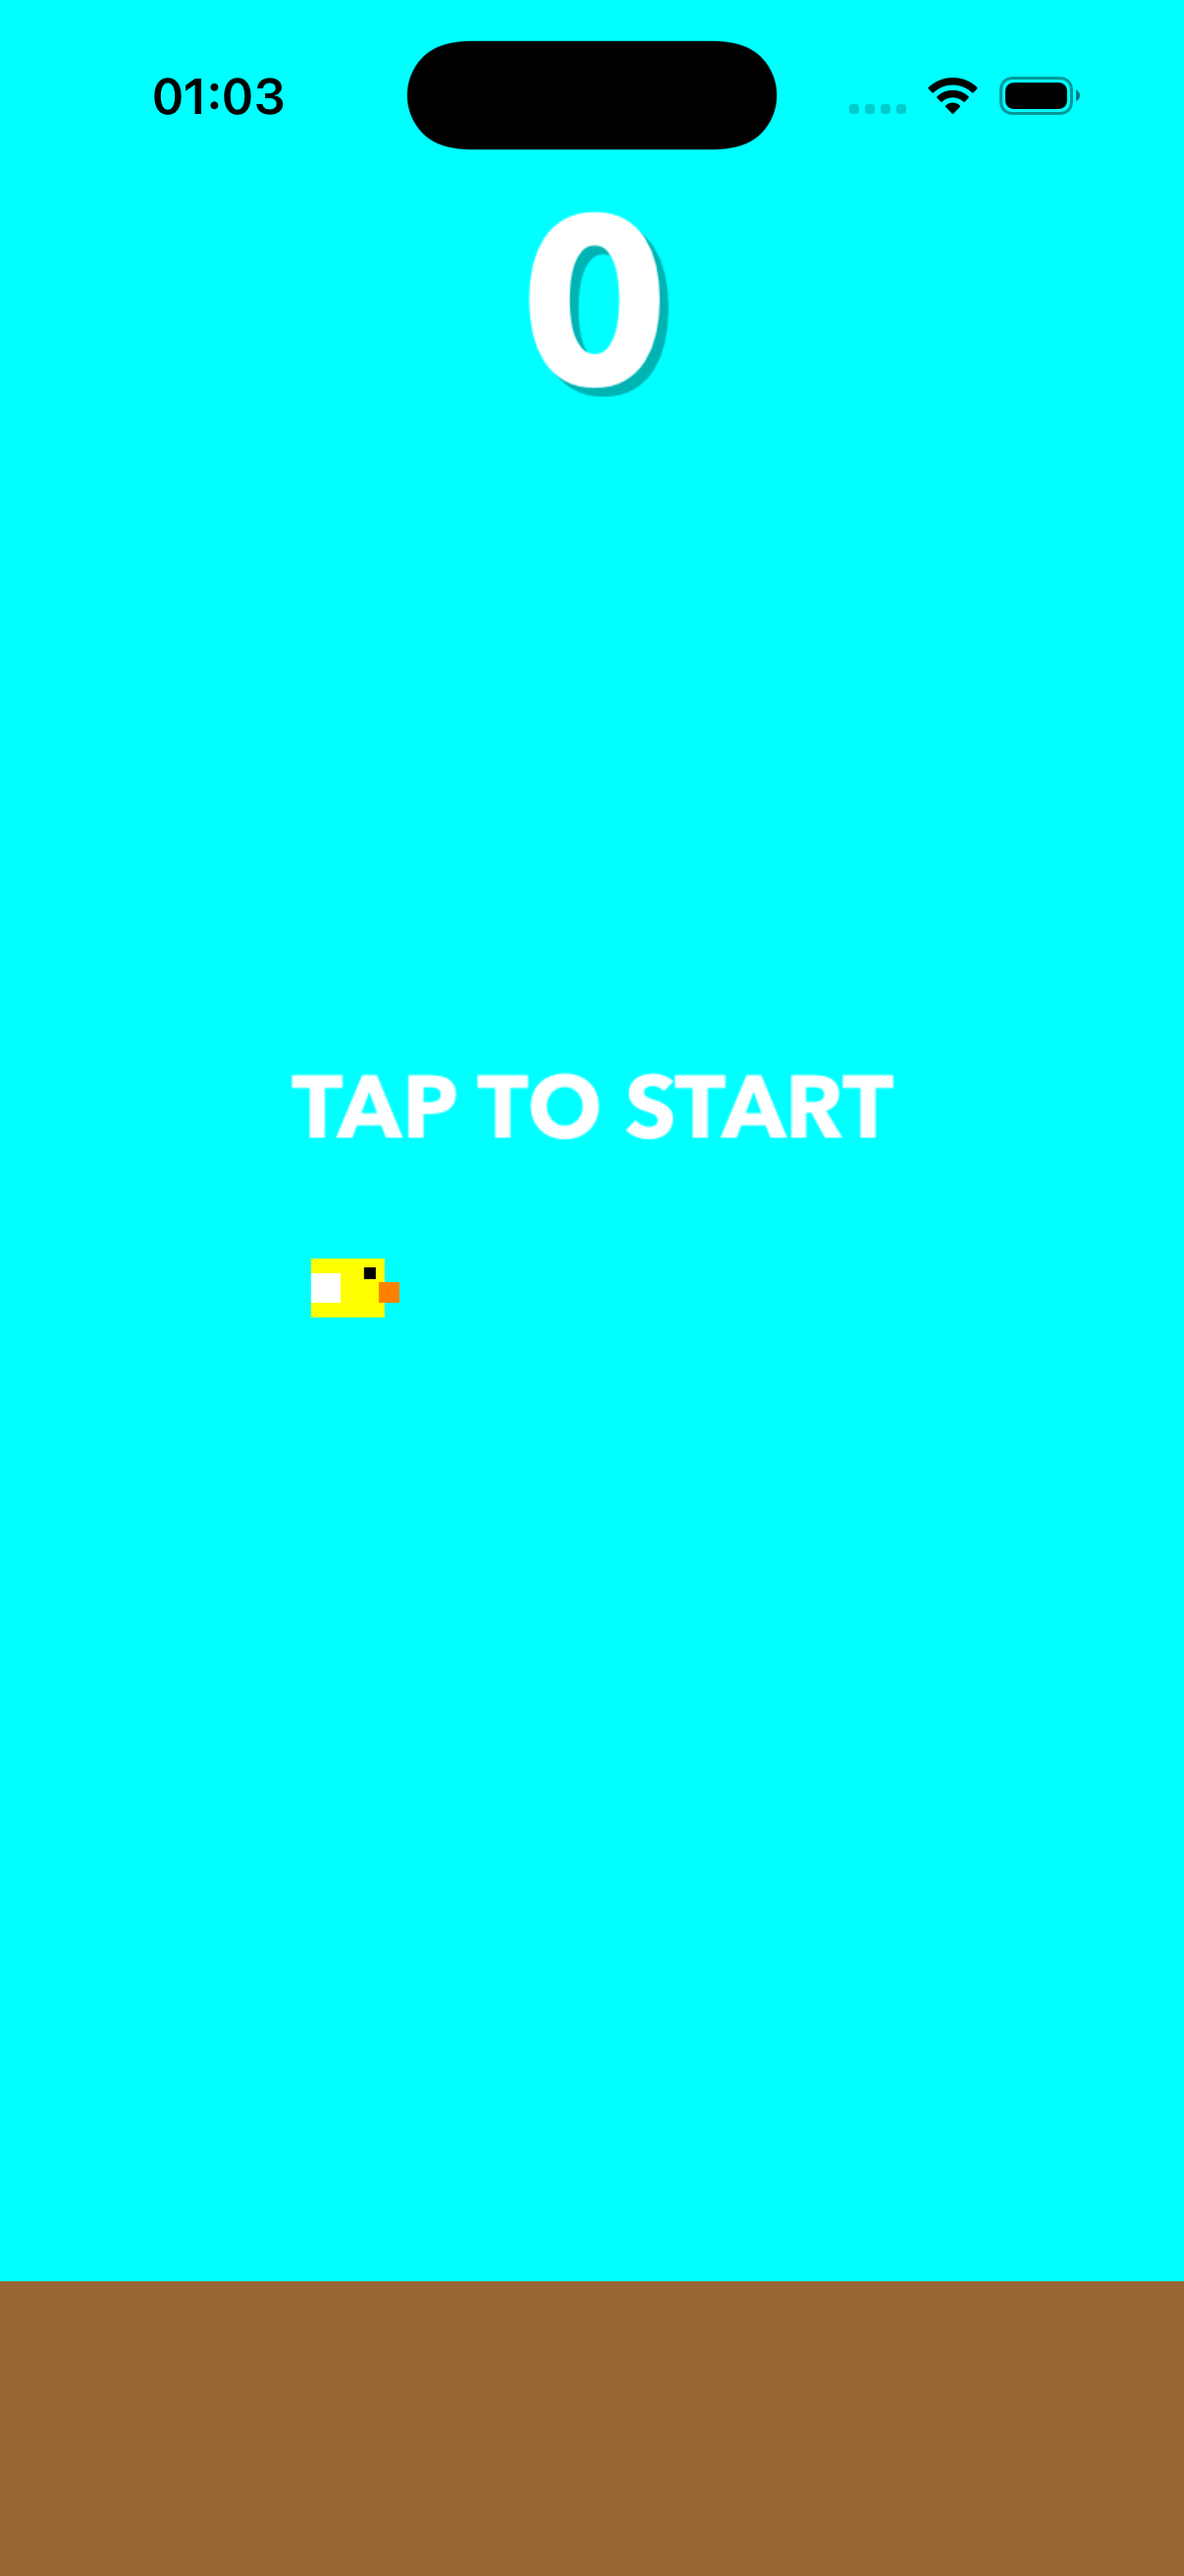
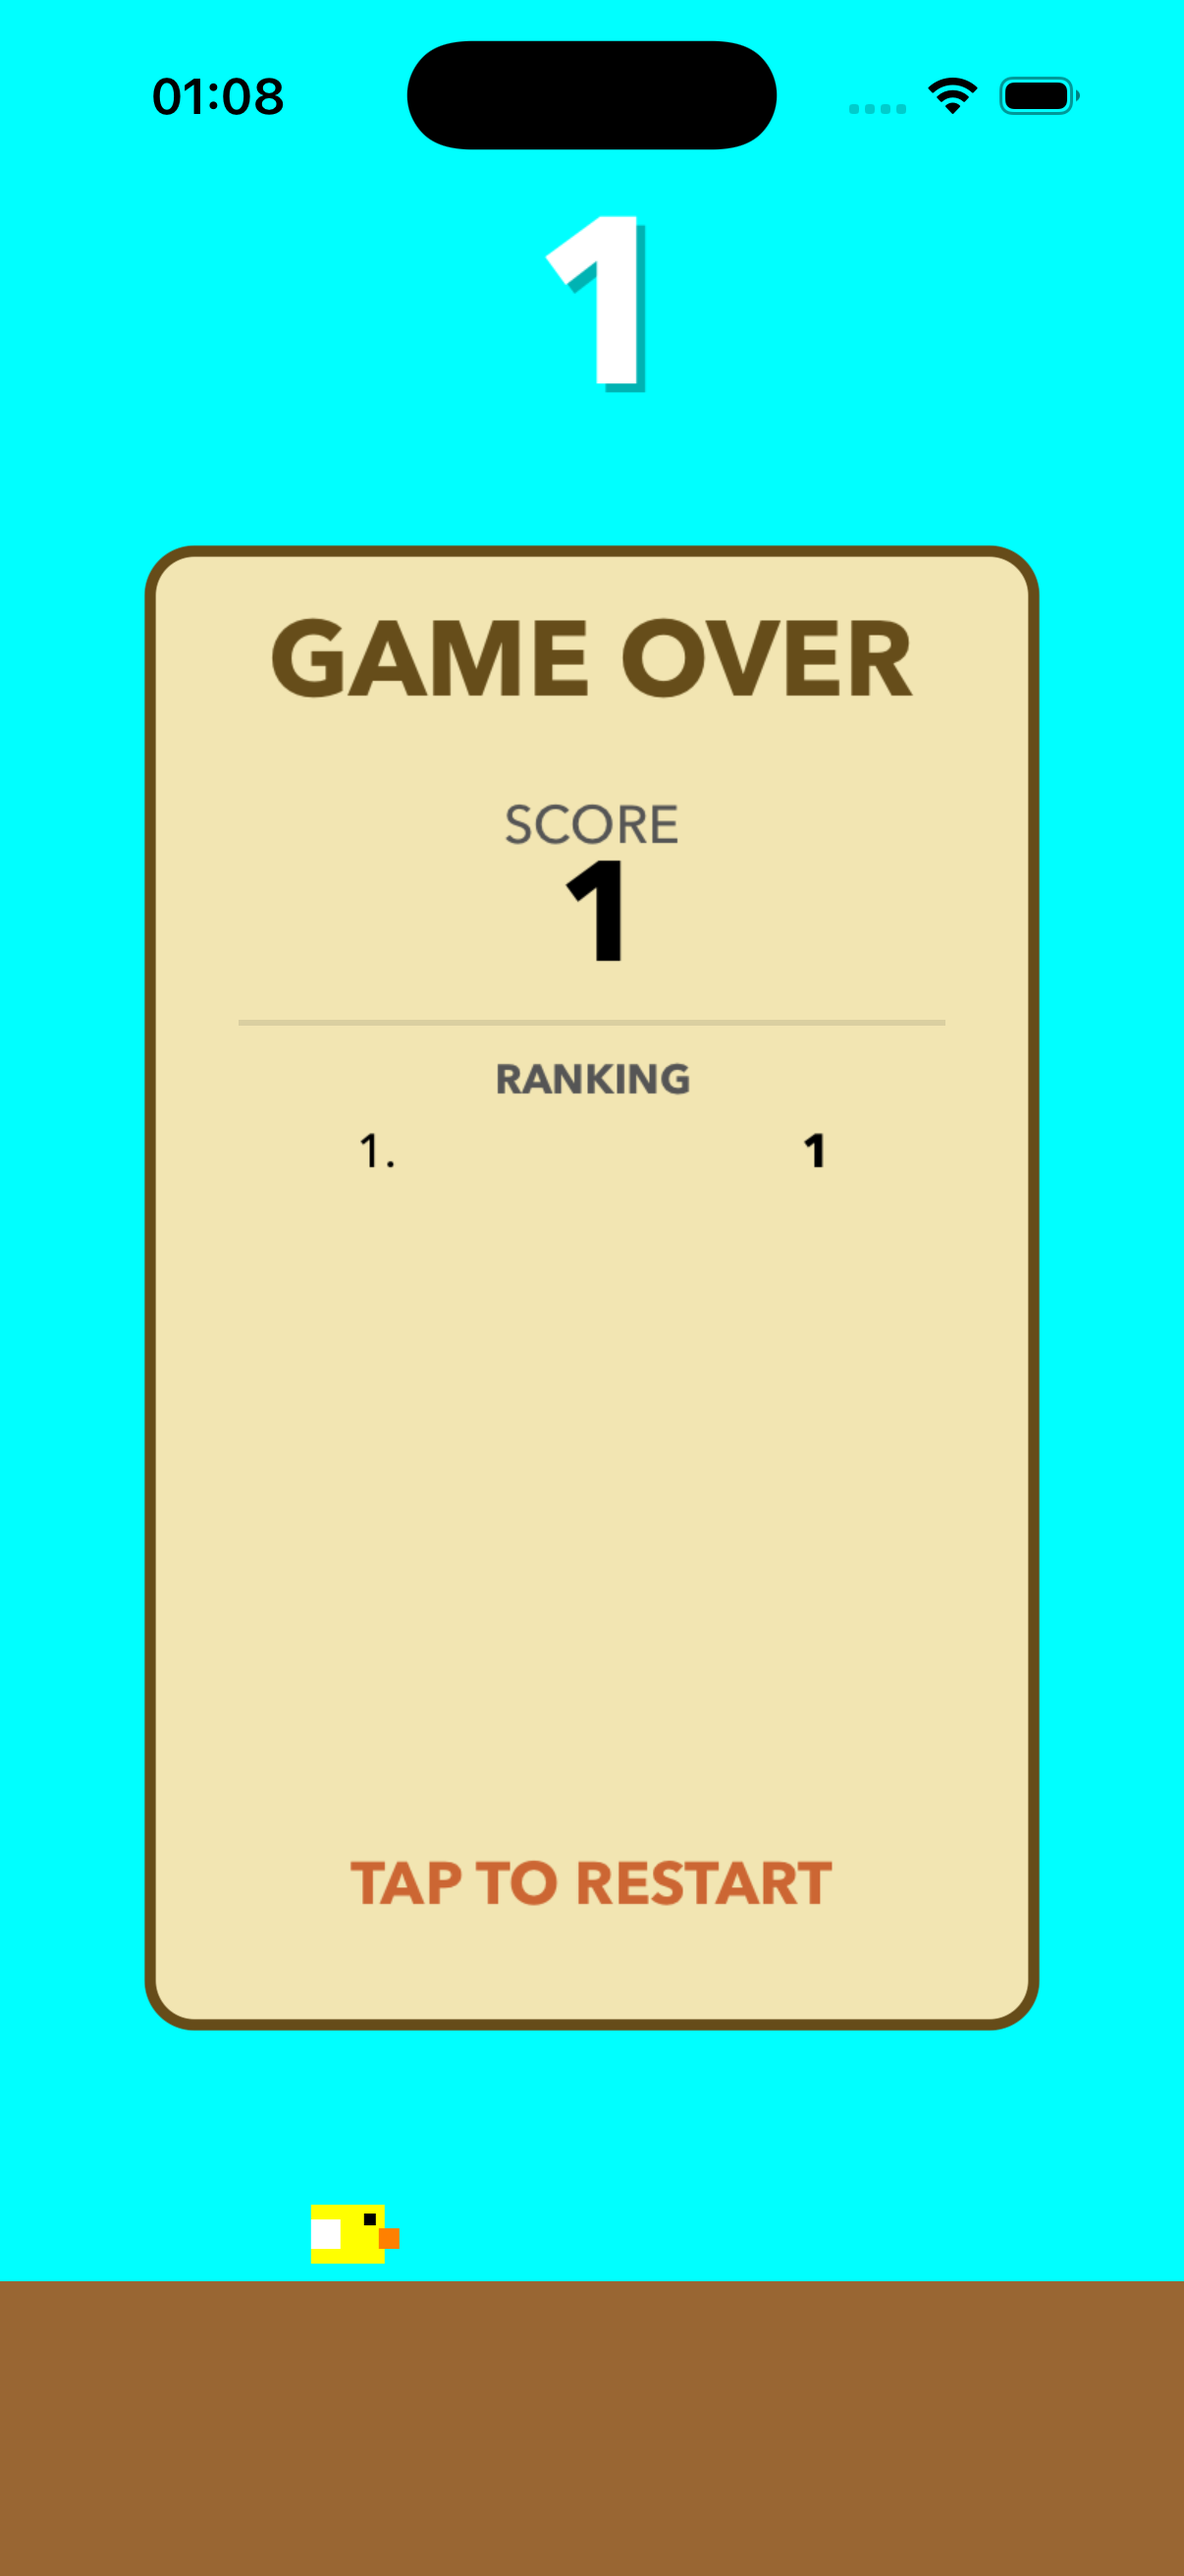
Verified screenshots v5 for v1.2.1

diff --git a/Sources/FlappyBird/GameScene.swift b/Sources/FlappyBird/GameScene.swift
@@ -189,8 +189,13 @@ class GameScene: SKScene, SKPhysicsContactDelegate {
     }
     
     func didBegin(_ contact: SKPhysicsContact) {
+        if !isStarted { 
+            print("Collision ignored because game hasn't started")
+            return 
+        }
         let contactMask = contact.bodyA.categoryBitMask | contact.bodyB.categoryBitMask
         if contactMask == (birdCategory | pipeCategory) || contactMask == (birdCategory | groundCategory) {
+            print("Collision detected: Game Over")
             if !isGameOver { gameOver() }
         } else if contactMask == (birdCategory | scoreCategory) {
             score += 1
@@ -203,9 +208,12 @@ class GameScene: SKScene, SKPhysicsContactDelegate {
     }
     
     func gameOver() {
+        if isGameOver || !isStarted { return }
         isGameOver = true
         self.physicsWorld.speed = 0
-        bird.physicsBody?.isDynamic = false
+        self.bird.physicsBody?.velocity = CGVector(dx: 0, dy: 0)
+        
+        // Save score and show UI
         saveScore(score)
         showGameOverUI()
     }
